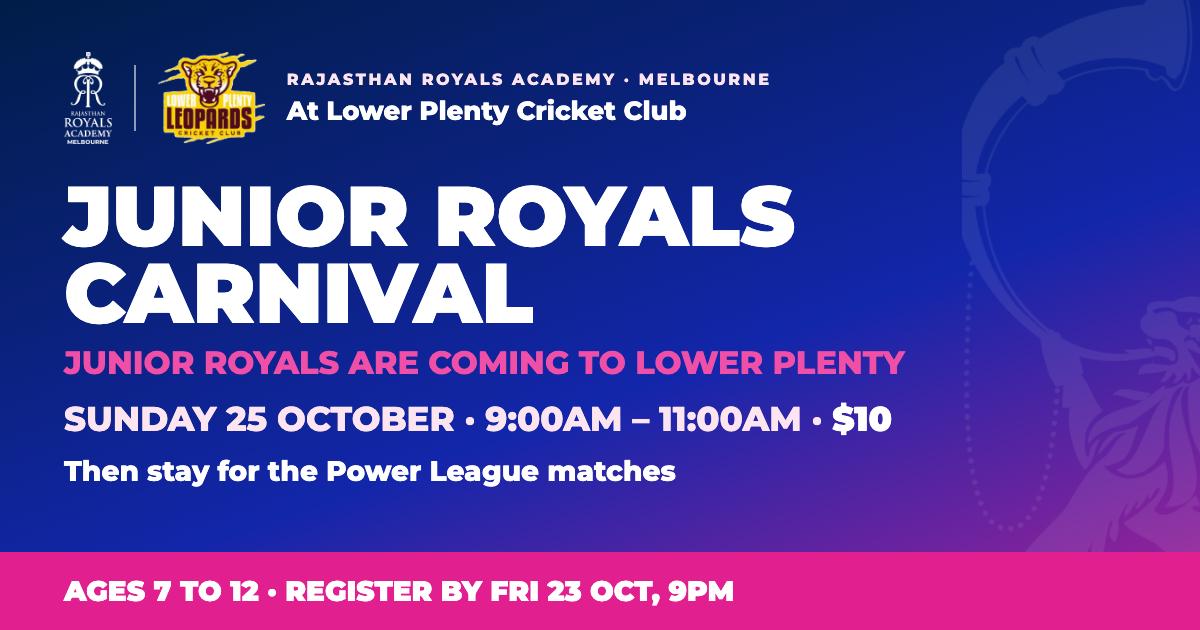
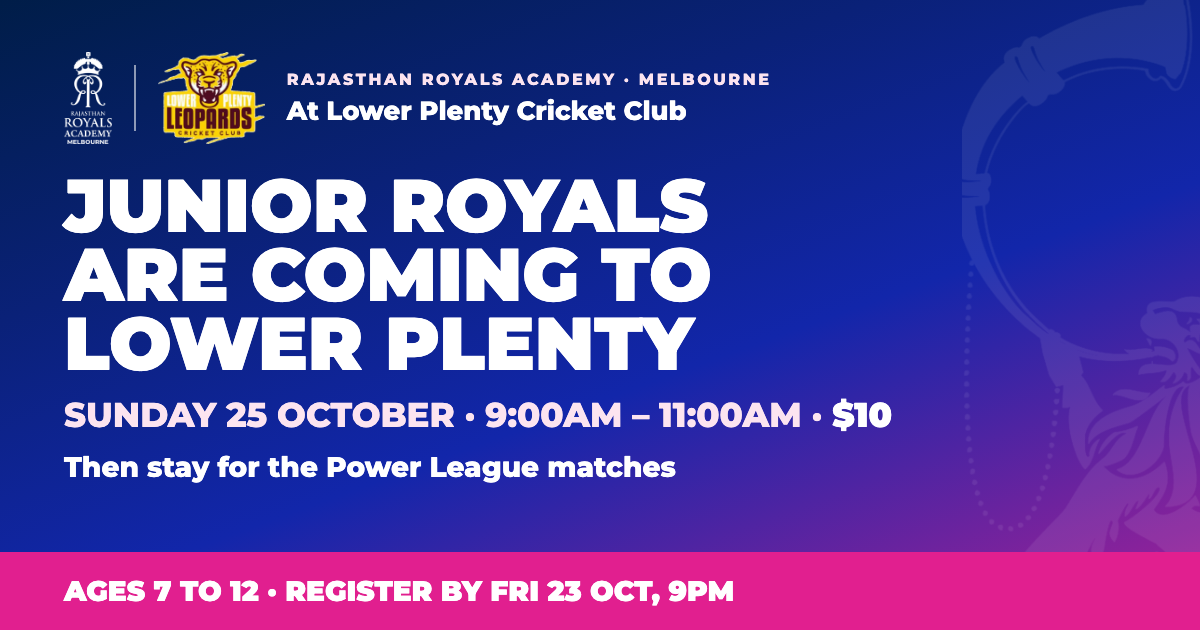
[Lower Plenty] Heading is "Junior Royals are coming to Lower Plenty"; Carnival dropped
Alex, 18 Oct 2026: "we're removing Junior Royals Carnival from the language" —
the main heading is "Junior Royals are coming to Lower Plenty" (the line that
sat under it is gone). Page heading, browser/Google title, success and pay
pages, Programs menu, What's On, home list, share card and the Stripe webhook's
program label all use it; comments and the sheet's guide text no longer say
carnival.

Two leftovers, on purpose: the Stripe product is still named "Junior Royals
Carnival Day Entry Fee" (renaming it is safe — the webhook maps the link by
id), and /carnival still redirects to the page.

Changed region(s): [[0.0308, 0.2714, 0.7708, 0.6032], [0.0308, 0.6333, 0.74, 0.6937], [0.0617, 0.7238, 0.5858, 0.7841]]

diff --git a/src/components/lower-plenty-junior-royals-day/lpJrDayData.js b/src/components/lower-plenty-junior-royals-day/lpJrDayData.js
@@ -1,5 +1,5 @@
 // ─────────────────────────────────────────────────────────────
-// JUNIOR ROYALS CARNIVAL AT LOWER PLENTY — /lower-plenty-junior-royals-day
+// JUNIOR ROYALS ARE COMING TO LOWER PLENTY — /lower-plenty-junior-royals-day
 //
 // THE ONE CONFIG FILE. Every fact and every line of copy on the page, the
 // success page and the promo rows (lpJrDayPromo.js) comes from here.
@@ -26,13 +26,13 @@
 // it. (He had asked for FREE EVENT big and bold; that came out when the $10
 // fee was set the same day — a paid event can't be called free.)
 //
-// Power League (Alex, 16 Oct 2026): the carnival is followed by Power League
+// Power League (Alex, 16 Oct 2026): the morning is followed by Power League
 // matches on Lower Plenty's ground AND Montmorency's ground; "stay and watch our
 // Power League players play off against each other" is his line. Montmorency
 // Cricket Club's ground is also Montmorency Park, Para Road (DVCA venue list),
 // so the two grounds are the park's two ovals. Its oval's own name is not
 // confirmed, so the page calls it "Montmorency Cricket Club's ground". No start
-// time is given: the page says "after the carnival". The match day itself is
+// time is given: the page says "afterwards". The match day itself is
 // /power-league (power-league/plOptions.js).
 //
 // WORKING ASSUMPTIONS — written as plain fact on the page so it reads as
@@ -59,12 +59,12 @@ export const DB_TABLE = 'lower_plenty_junior_royals_day_registrations';
 export const PLACES_RPC = 'lower_plenty_jr_day_places';
 
 // ── The event ──
-// Name and main heading: "Junior Royals Carnival" (Alex, 18 Oct 2026, back from a
-// day as "Junior Royals Are Coming to Lower Plenty"), with that phrase kept as the
-// line under the heading (TAGLINE). Posters print the full page address.
-export const EVENT_NAME = 'Junior Royals Carnival';
-export const TAGLINE = 'Junior Royals are coming to Lower Plenty';
-export const PROGRAM_NAME = 'Junior Royals Carnival at Lower Plenty'; // Meta Pixel content_name
+// Name and main heading (Alex, 18 Oct 2026): "Junior Royals are coming to Lower Plenty".
+// "Junior Royals Carnival" is no longer used anywhere — page, promos, posters. Two
+// leftovers only: the Stripe product is still called "Junior Royals Carnival Day Entry
+// Fee", and the old short address /carnival still redirects here.
+export const EVENT_NAME = 'Junior Royals Are Coming to Lower Plenty';
+export const PROGRAM_NAME = EVENT_NAME; // Meta Pixel content_name
 export const MIN_AGE = 7;
 export const MAX_AGE = 12;
 export const AGES = `${MIN_AGE}–${MAX_AGE}`;
@@ -90,7 +90,7 @@ export const PRICE_LINE = `$${PRICE} per player, incl. GST`;
 // Stripe Payment Link "Junior Royals Carnival Day Entry Fee", created 16 Oct 2026
 // (plink_1UR3QNIo52UEA50yq6GKVkSy). After payment Stripe redirects to
 // /lower-plenty-junior-royals-day/success?session_id={CHECKOUT_SESSION_ID}.
-// The webhook maps this link to the carnival and marks the row paid using the
+// The webhook maps this link to this event and marks the row paid using the
 // client_reference_id the form adds (api/stripe-webhook.js).
 export const PAYMENT_LINK = 'https://buy.stripe.com/5kQdR99zHd4N0uUdI79Zm0W';
 export const payUrlFor = ({ bookingId, email } = {}) => {
@@ -133,7 +133,7 @@ export const LOGOS = {
 };
 export const HERO_PHOTO = '/assets/little-crickets-hero.jpeg';
 
-// ── Power League matches after the carnival (Alex, 16 Oct 2026) ──
+// ── Power League matches after the morning (Alex, 16 Oct 2026) ──
 export const POWER_LEAGUE = {
     when: 'Afterwards',
     title: 'Stay for the Power League',

diff --git a/api/stripe-webhook.js b/api/stripe-webhook.js
@@ -105,15 +105,15 @@ const PROGRAM_PRICE_IDS = {
 // July + Sept holiday payment gap). Add other static links here as needed.
 const PAYMENT_LINK_PROGRAMS = {
   'plink_1U5Kd0Io52UEA50y3hqasgbv': { program: 'holiday', program_variant: null, program_label: 'Junior Royals Holiday Program — Sept/Oct 2026' },
-  // $10 entry fee for the Junior Royals Carnival at Lower Plenty, Sun 25 Oct 2026
+  // $10 entry fee for "Junior Royals are coming to Lower Plenty", Sun 25 Oct 2026
   // (Alex, 16 Oct 2026). Mapped by link on purpose: its product name, "Junior
   // Royals Carnival Day Entry Fee", would otherwise classify as a Junior Royals
   // term payment by description. Paid rows back-fill onto
   // lower_plenty_junior_royals_day_registrations (see LOWER_PLENTY_JR_DAY_TABLE).
-  'plink_1UR3QNIo52UEA50yq6GKVkSy': { program: 'lower_plenty_jr_day', program_variant: null, program_label: 'Junior Royals Carnival Day Entry Fee — Lower Plenty, Sun 25 Oct 2026' },
+  'plink_1UR3QNIo52UEA50yq6GKVkSy': { program: 'lower_plenty_jr_day', program_variant: null, program_label: 'Junior Royals are coming to Lower Plenty — $10 entry fee, Sun 25 Oct 2026' },
 };
 
-// Registration table for the Lower Plenty carnival. The form sends the row id as
+// Registration table for the Lower Plenty morning. The form sends the row id as
 // client_reference_id; the webhook marks that row paid.
 const LOWER_PLENTY_JR_DAY_TABLE = 'lower_plenty_junior_royals_day_registrations';
 
@@ -536,7 +536,7 @@ export default async function handler(req, res) {
       }
     }
 
-    // Lower Plenty carnival ($10 entry fee): mark the registration row paid.
+    // Lower Plenty morning ($10 entry fee): mark the registration row paid.
     // Non-blocking, like the Term 3 completion above: the payment is already
     // recorded in program_registrations, and the sheet sync also matches it by
     // email, so a failure here must never make Stripe retry the whole event.

diff --git a/src/App.jsx b/src/App.jsx
@@ -79,7 +79,7 @@ const OpenAgeTrial = React.lazy(() => import('./components/open-age-trial/OpenAg
 // redirects back to the booking page.
 const SidJuniors = React.lazy(() => import('./components/sid-juniors/SidJuniors'));
 const SidJuniorsSuccess = React.lazy(() => import('./components/sid-juniors/SidJuniorsSuccess'));
-// Junior Royals Carnival at Lower Plenty — $10 (Stripe Payment Link), Sun 25 Oct 2026, 9–11am, ages 7–12.
+// Junior Royals are coming to Lower Plenty — $10 (Stripe Payment Link), Sun 25 Oct 2026, 9–11am, ages 7–12.
 // PUBLIC (menu, What's On, home list, drawer via lpJrDayPromo.js). Facts:
 // components/lower-plenty-junior-royals-day/lpJrDayData.js. Form → lower_plenty_junior_royals_day_registrations
 // (60-place cap and Fri 23 Oct 9pm close enforced in the database).
@@ -271,7 +271,7 @@ function App() {
         <Route path="/sid-juniors" element={<React.Suspense fallback={<div className="min-h-screen bg-rr-dark" />}><SidJuniors /></React.Suspense>} />
         <Route path="/sid-juniors/success" element={<React.Suspense fallback={<div className="min-h-screen bg-rr-dark" />}><SidJuniorsSuccess /></React.Suspense>} />
 
-        {/* Junior Royals Carnival at Lower Plenty Cricket Club, Sun 25 Oct 2026 — $10, ages 7–12.
+        {/* Junior Royals Are Coming to Lower Plenty (Lower Plenty Cricket Club), Sun 25 Oct 2026 — $10, ages 7–12.
             Public. REVIEW 26 OCT 2026: take it off the promo surfaces, then close or retire. */}
         <Route path="/lower-plenty-junior-royals-day" element={<React.Suspense fallback={<div className="min-h-screen bg-white" />}><LowerPlentyJrDay /></React.Suspense>} />
         <Route path="/lower-plenty-junior-royals-day/success" element={<React.Suspense fallback={<div className="min-h-screen bg-white" />}><LowerPlentyJrDaySuccess /></React.Suspense>} />

diff --git a/api/sync-program-signups.js b/api/sync-program-signups.js
@@ -385,7 +385,7 @@ export function allocatePayments(records, payments) {
   return { byRecordId, recordByPayment };
 }
 
-// Lower Plenty carnival: the form sends the row id to Stripe as
+// Lower Plenty morning: the form sends the row id to Stripe as
 // client_reference_id, so a payment carrying one goes to exactly that row.
 // Payments without one (a link opened by hand) fall back to email matching.
 export function allocateLpJrDay(records, payments) {
@@ -753,7 +753,7 @@ export const jrTerm4Row = (r) => ([
 ]);
 
 // ── Lower Plenty Junior Royals Day ──────────────────────────
-// The Junior Royals Carnival at Lower Plenty Cricket Club, Sunday 25 October
+// "Junior Royals are coming to Lower Plenty" — Lower Plenty Cricket Club, Sunday 25 October
 // 2026, 9:00–11:00am, players 7 to 12, $10 per player (Alex, 16 Oct 2026).
 // A row is a registration; the place is booked once the $10 is paid. Paid comes
 // from the row itself (the webhook sets it via client_reference_id) or, as a
@@ -921,7 +921,7 @@ export const guideLines = (linkLines = [], counts = {}) => {
     ['  actually booked. Monday was offered to measure whether a second night is worth'],
     ['  adding — picking it does not mean a Monday session exists.'],
     [''],
-    [`"${PROGRAM_LABELS['lp-jr-day']}" — the Junior Royals Carnival at Lower Plenty Cricket`],
+    [`"${PROGRAM_LABELS['lp-jr-day']}" — Junior Royals are coming to Lower Plenty: a morning at Lower Plenty Cricket`],
     ['  Club, Sunday 25 October 2026, 9:00 to 11:00am, players aged 7 to 12, from'],
     ['  rramelbourne.com/lower-plenty-junior-royals-day. $10 per player (incl. GST), paid by'],
     ['  card through Stripe straight after the form. A player\'s place is booked once the'],

diff --git a/src/seo/pageSeo.js b/src/seo/pageSeo.js
@@ -41,15 +41,15 @@ export const PAGE_SEO = {
     description:
       'Nominate a player for a Rajasthan Royals Academy Power League T20 match day on Sunday 25 October, Lower Plenty and Montmorency. Ages 10 to 25, $35 a game. Nominations close Tuesday 20 October.',
   },
-  // Junior Royals Carnival at Lower Plenty ("Junior Royals are coming to Lower Plenty"),
-  // Sun 25 Oct 2026 (Alex, 16 and 18 Oct 2026).
+  // "Junior Royals are coming to Lower Plenty" (the event's name since 18 Oct 2026),
+  // Sun 25 Oct 2026 (Alex, 16 Oct 2026).
   // Shared off the flyer QR and in WhatsApp, so it is prerendered with its own
   // card. Facts mirror components/lower-plenty-junior-royals-day/lpJrDayData.js.
   // REVIEW 26 OCT 2026 — the morning is over.
   '/lower-plenty-junior-royals-day': {
-    title: 'Junior Royals Carnival | Lower Plenty, Melbourne',
+    title: 'Junior Royals Are Coming to Lower Plenty | Melbourne',
     description:
-      'Junior Royals are coming to Lower Plenty: a morning of cricket for players aged 7 to 12, Sunday 25 October, 9–11am, Lower Plenty Oval South, Montmorency Park, Melbourne. Rajasthan Royals Academy coaches, then Power League matches. $10 incl. GST.',
+      'A morning of cricket for players aged 7 to 12: Sunday 25 October, 9–11am, Lower Plenty Oval South, Montmorency Park, Melbourne. Rajasthan Royals Academy coaches, then Power League matches. $10 incl. GST.',
     ogImage: '/assets/lower-plenty/lower-plenty-jr-day-og.png',
   },
   '/spin-club': {

diff --git a/src/components/lower-plenty-junior-royals-day/lpJrDayPromo.js b/src/components/lower-plenty-junior-royals-day/lpJrDayPromo.js
@@ -1,5 +1,5 @@
 // ─────────────────────────────────────────────────────────────
-// JUNIOR ROYALS CARNIVAL AT LOWER PLENTY — every mention outside the page
+// JUNIOR ROYALS ARE COMING TO LOWER PLENTY — every mention outside the page
 //
 // Read by: the Programs menu (Navbar.jsx), the What's On pop-up and ticker
 // (home-page/openDaysData.js), the home hero list (HomeHero.jsx) and the
@@ -18,7 +18,7 @@ export const LP_JR_DAY_ROUTE = ROUTE;
 export const PROGRAM_ROW = {
     navLabel: `${EVENT_NAME} · ${AGES}`,
     navBadge: `$${PRICE} · ${SHORT_DAY}`,
-    heroLabel: `${EVENT_NAME} at Lower Plenty`,
+    heroLabel: EVENT_NAME,
     heroBadge: `Ages ${AGES_SPOKEN} · ${SHORT_DAY}, 9–11am · $${PRICE}`,
     drawerUrgency: `Ages ${AGES_SPOKEN} — ${CLUB}, ${SHORT_DAY}, 9–11am, $${PRICE} incl. GST. Registrations close ${CLOSES}`,
 };
@@ -26,7 +26,7 @@ export const PROGRAM_ROW = {
 // The ticker shows only `name` and `tag`, so the tag says who, where, when, cost.
 export const ANNOUNCEMENT = {
     key: 'lower-plenty-junior-royals-day',
-    name: `${EVENT_NAME} at ${CLUB}`,
+    name: EVENT_NAME,
     tag: `Ages ${AGES_SPOKEN} · ${SHORT_DAY}, ${TIME} · $${PRICE}`,
     detail: `Lower Plenty Oval South, Montmorency Park · $${PRICE} incl. GST · then stay for the Power League matches · registrations close ${CLOSES}`,
     href: ROUTE,

diff --git a/src/components/lower-plenty-junior-royals-day/LPHero.jsx b/src/components/lower-plenty-junior-royals-day/LPHero.jsx
@@ -2,7 +2,7 @@ import React from 'react';
 import { motion } from 'framer-motion';
 import { ArrowRight } from 'lucide-react';
 import { fadeUp, scrollTo } from '../performance-squads/shared';
-import { HERO, CTA, EVENT_NAME, TAGLINE, DAY, SHORT_DAY, TIME, LOGOS, HERO_PHOTO, CLUB, FORM_ANCHOR, PRICE } from './lpJrDayData';
+import { HERO, CTA, EVENT_NAME, DAY, SHORT_DAY, TIME, LOGOS, HERO_PHOTO, CLUB, FORM_ANCHOR, PRICE } from './lpJrDayData';
 import { placesLine } from './usePlaces';
 
 // Dark photo hero, the one dark surface above the form (Alex, 12 Oct 2026:
@@ -43,9 +43,6 @@ const LPHero = ({ places }) => {
                     <h1 className="text-[2.2rem] leading-[0.95] sm:text-6xl lg:text-7xl font-black uppercase tracking-tight mb-3 sm:mb-5">
                         {EVENT_NAME}
                     </h1>
-                    <p className="text-xl sm:text-3xl font-black uppercase text-white leading-tight -mt-1 sm:-mt-2 mb-3 sm:mb-4">
-                        {TAGLINE}
-                    </p>
                     <p className="text-lg sm:text-3xl font-black text-rr-light-pink leading-snug">
                         <span className="sm:hidden">{SHORT_DAY}</span>
                         <span className="hidden sm:inline">{DAY}</span>

diff --git a/src/components/home-page/HomeHero.jsx b/src/components/home-page/HomeHero.jsx
@@ -18,7 +18,7 @@ import { PROGRAM_ROW as LP_JR_DAY_ROW, LP_JR_DAY_ROUTE } from '../lower-plenty-j
 // Pink dot = you can book or pay now. Green dot = open, nothing to pay yet.
 // REVIEW 6 OCT 2026 — the trial, the junior sessions with Sid and the holiday
 // camp are all over by then.
-// REVIEW 26 OCT 2026 — the Lower Plenty carnival row (first) comes out.
+// REVIEW 26 OCT 2026 — the Lower Plenty row (first) comes out.
 const PROGRAMS = [
     { label: LP_JR_DAY_ROW.heroLabel, route: LP_JR_DAY_ROUTE, badge: LP_JR_DAY_ROW.heroBadge, badgeColor: 'bg-rr-pink' },
     { label: 'Performance Squads Open Trial', route: '/performance-squads-open-trial', badge: 'Ages 16 to 25 · Mickleham Mon 5 Oct · Cranbourne North full', badgeColor: 'bg-rr-pink' },

diff --git a/src/components/home-page/RegisterDrawer.jsx b/src/components/home-page/RegisterDrawer.jsx
@@ -17,7 +17,7 @@ const GENDER_OPTIONS = ['Male Cricket', 'Female Cricket', 'No Preference'];
 // modal — same programs, same order (26 Sep 2026).
 // REVIEW 6 OCT 2026 — the trial, the junior sessions with Sid and the holiday
 // camp are all over by then.
-// REVIEW 26 OCT 2026 — the Lower Plenty carnival row (first) comes out.
+// REVIEW 26 OCT 2026 — the Lower Plenty row (first) comes out.
 const PROGRAMS = [
     { label: LP_JR_DAY_ROW.heroLabel, route: LP_JR_DAY_ROUTE, urgency: LP_JR_DAY_ROW.drawerUrgency },
     { label: 'Performance Squads Open Trial', route: '/performance-squads-open-trial', urgency: 'Ages 16 to 25 — Mickleham Mon 5 Oct, $30 a session. Cranbourne North (Sun 4 Oct) is full' },

diff --git a/src/components/Navbar.jsx b/src/components/Navbar.jsx
@@ -78,7 +78,7 @@ const PC_NAV = [
 //                        2026). REVIEW 6 OCT 2026: pull it with the trial.
 //   Junior Royals      — Term 4, Wednesdays at Mickleham and Cranbourne North,
 //                        28 Oct – 16 Dec (Alex, 5 Oct 2026). REVIEW 16 DEC 2026.
-//   Junior Royals Carnival at Lower Plenty — $10, Sun 25 Oct 2026, ages 7–12
+//   Junior Royals are coming to Lower Plenty — $10, Sun 25 Oct 2026, ages 7–12
 //                        (Alex, 16 Oct 2026). REVIEW 26 OCT 2026: pull the row.
 //   Spin Club          — announced 26 Sep 2026, interest only. No start date
 //                        confirmed; when Alex sets the first Wednesday, say it

diff --git a/src/components/lower-plenty-junior-royals-day/LowerPlentyJrDay.jsx b/src/components/lower-plenty-junior-royals-day/LowerPlentyJrDay.jsx
@@ -10,7 +10,7 @@ import usePlaces from './usePlaces';
 import { ROUTE, CTA, CTA_WITH_PRICE, FORM_ANCHOR } from './lpJrDayData';
 
 // ─────────────────────────────────────────────────────────────
-// JUNIOR ROYALS CARNIVAL AT LOWER PLENTY — /lower-plenty-junior-royals-day
+// JUNIOR ROYALS ARE COMING TO LOWER PLENTY — /lower-plenty-junior-royals-day
 //
 // A morning for players aged 7 to 12: Sunday 25 October 2026,
 // 9:00am – 11:00am, Lower Plenty Cricket Club (Lower Plenty Oval South,

diff --git a/src/components/home-page/openDaysData.js b/src/components/home-page/openDaysData.js
@@ -33,7 +33,7 @@ import { ANNOUNCEMENT as SID_JUNIORS_ANNOUNCEMENT } from '../sid-juniors/sidJuni
 import { ANNOUNCEMENT as LP_JR_DAY_ANNOUNCEMENT } from '../lower-plenty-junior-royals-day/lpJrDayPromo';
 
 export const ANNOUNCEMENTS = [
-    // Junior Royals Carnival at Lower Plenty ($10), Sun 25 Oct 2026 (Alex, 16 Oct
+    // Junior Royals Are Coming to Lower Plenty ($10), Sun 25 Oct 2026 (Alex, 16 Oct
     // 2026). Nearest real deadline (Fri 23 Oct, 9pm). REVIEW 26 OCT 2026: remove.
     LP_JR_DAY_ANNOUNCEMENT,
     {
